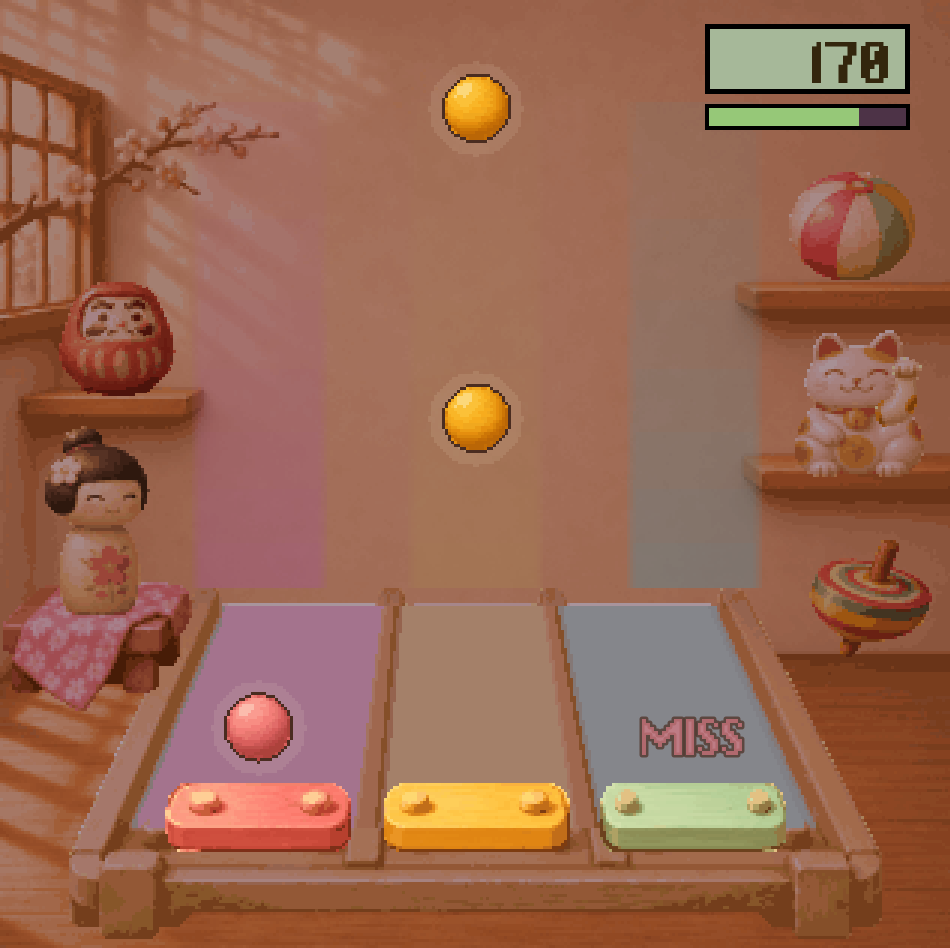
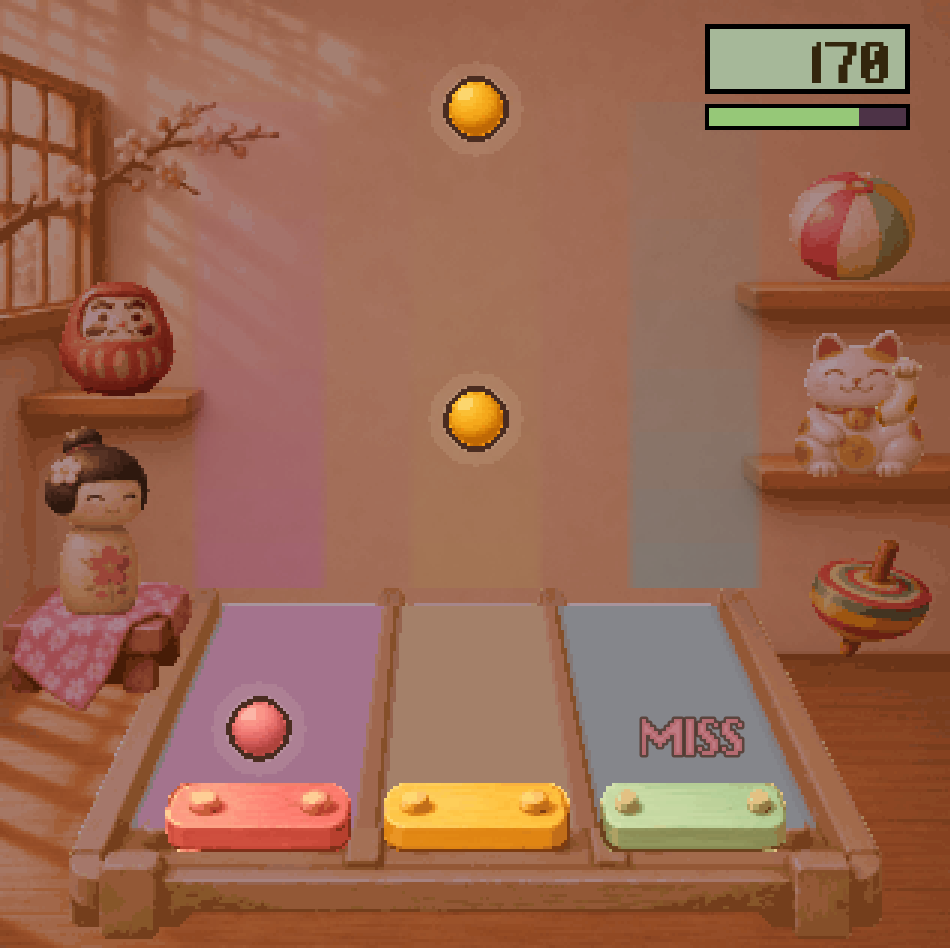
Tomo Tunes: the result card comes when a whole take ends (the user: the menu doesn't appear; a stopped player's position reads 0); the notes slightly smaller with a 2-pixel outline (the user)

diff --git a/tools/design/tunes_world.py b/tools/design/tunes_world.py
@@ -43,6 +43,23 @@ def small(name):
     return np.clip(rgb, 0, 1), (al[..., 0] >= 0.5)
 
 
+NOTE = 18                             # art px across, before its outline (the user, 2026-11-13: "slightly smaller"; it was 22)
+
+
+def bead(name):
+    """a note at NOTE art px, from its painted 130 px cutout, in the middle of an empty canvas"""
+    im = Image.open(os.path.join(SRC, name + '.png')).convert('RGBA')
+    im = np.asarray(im.crop(im.getbbox())).astype(np.float32) / 255.0
+    a = im[..., 3:4]
+    pre = Image.fromarray((np.concatenate([im[..., :3] * a, a], 2) * 255).astype(np.uint8), 'RGBA').resize((NOTE, NOTE), Image.BOX)
+    p = np.asarray(pre).astype(np.float32) / 255.0
+    rgb, mask = np.zeros((H, W, 3), np.float32), np.zeros((H, W), bool)
+    y, x = H // 2, W // 2
+    rgb[y:y + NOTE, x:x + NOTE] = np.clip(p[..., :3] / np.maximum(p[..., 3:4], 0.001), 0, 1)
+    mask[y:y + NOTE, x:x + NOTE] = p[..., 3] >= 0.5
+    return rgb, mask
+
+
 def outlined(rgb, mask):
     """a 1 px dark outline around the shape (grows the mask)"""
     m = np.pad(mask, 1)
@@ -117,7 +134,7 @@ def main():
     bar_row = min(max(edges), bar_y)
     for n in LAYERS:
         if n.startswith('note_'):
-            got[n] = outlined(*got[n])
+            got[n] = outlined(*outlined(*bead(n)))       # the outline twice: 2 art px (the user: "a bit more of outline")
         if n.startswith('bar_'):
             got[n] = same_size(*got[n], centre(bar_row, ['low', 'mid', 'high'].index(n.split('_')[1])))
     layout = {}
@@ -127,6 +144,8 @@ def main():
         k = 56 if n == 'room' else (12 if n.startswith('note_') else 20)
         own = Image.fromarray((rgb[mask][None] * 255).astype(np.uint8), 'RGB').quantize(k, method=Image.MEDIANCUT, dither=Image.NONE)
         q = np.asarray(Image.fromarray((rgb * 255).astype(np.uint8), 'RGB').quantize(palette=own, dither=Image.NONE).convert('RGB'))
+        if n.startswith('note_'):
+            q = q.copy(); q[mask & (np.abs(rgb * 255 - np.array(OUTLINE)).sum(2) < 2)] = OUTLINE
         im = Image.fromarray(np.dstack([q, mask.astype(np.uint8) * 255]), 'RGBA')
         box = im.getbbox()
         im.crop(box).save(os.path.join(OUT, n + '.png'))

diff --git a/docs/tomo_tunes.md b/docs/tomo_tunes.md
@@ -210,6 +210,7 @@ Added 2026-11-13 (the user, after more play: "how the notes of the lead coincide
 | 2026-11-13 | The count-in can differ by song: the user says which (`COUNT_BEATS_OF`; 1B has 4 clicks, the default is 3) |
 | 2026-11-13 | KEPT (the user: "great, that's the way", then a bit quieter: -11 dB), so it is the rule for every world: a press that is not a hit plays the instrument's wrong note in that lane's register (low, middle, high) and costs more groove (a stray press 0.07, was 0.04; a missed note stays 0.08). The sounds are made by `tools/audio/tune_wrong.py` (a dead stroke on two notes a semitone apart), `sounds/tunes/fx/xylophone_wrong_*.wav`. If the user keeps it, it is the rule for every world: add the world's instrument to the tool's `INSTRUMENTS` table |
 | 2026-11-13 | A song finished = applause with the result card, in three sizes by the stars (the user): a few hands for 1 star, a small room for 2, a full room with whistles for 3. Made by `tools/audio/applause.py` (`sounds/fx/applause_1..3.wav`); a failed song gets none. Only in Tomo Tunes for now |
+| 2026-11-13 | The result card didn't come when a song ended (the user): a take played whole ends exactly at its length, the player stops and its position reads 0, so "time is up" never came. The song now also ends when the player has stopped, or by the frame clock (`played`). QA: `tools/qa/tunes_end.gd` jumps to 4 s before the end and checks the card opens. The notes: 18 art pixels across (were 22) with a 2-pixel outline (the user: slightly smaller, a bit more outline) |
 
 ## 6d. How each new song is made (the workflow)
 

diff --git a/docs/handbook.md b/docs/handbook.md
@@ -149,5 +149,7 @@ width**: world 1 needed the tool to even them out.
 | Suno's tempo wanders and a pickup note shifts the grid | `tune_chart.py` follows the grid note by note and picks the best-fitting start (`best_grid()`) |
 | Publishing the decisions page made a second page | always publish with `url` = the original (see the roadmap's file table) |
 | The shrine's weather (rain, its sound) showed over a game | the shrine checks `GameScreen.is_active`; anything living on the pet screen must go quiet inside a game |
+| A song played to its very end never showed its result (a stopped player's position reads 0) | never wait on `get_playback_position()` alone: also end on `not playing` and on a frame clock; test the END of a song with `tools/qa/tunes_end.gd` |
+| A shell line waiting on the keyboard (`cat > file` with no input) hangs a whole run | never leave a command that reads stdin |
 | The phone shows "unavailable" or is locked | retry the install; a failed launch only needs the user to open the app |
 | The editor open during command-line Godot runs can corrupt its UID cache | if the editor floods "Unrecognized UID", restart it; the user accepts installs with the editor open |
